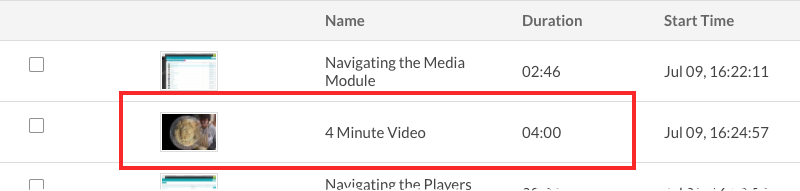
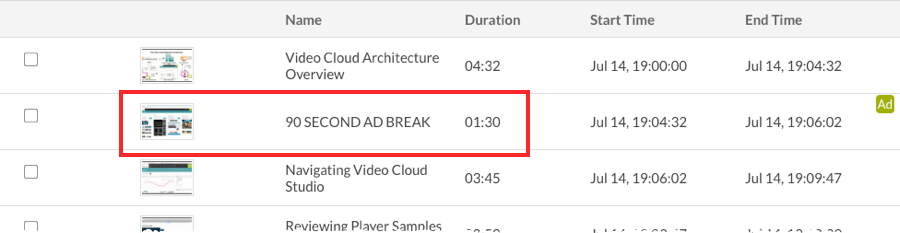
cloud playout

diff --git a/_site/general/cloud-playout-stream-vod.html b/_site/general/cloud-playout-stream-vod.html
@@ -971,7 +971,7 @@ function doGTranslate(lang_pair) {if(lang_pair.value)lang_pair=lang_pair.value;i
       <li>Click <strong>Insert Ads</strong> and select an <strong>ad duration</strong>. The list of ad durations is generated based upon the lengths of all the ad break &quot;placeholder&quot; videos (tagged <code>cp-ad-holder</code>).
         <figure class="bcls-figure"><img class="bcls-image--no-border" alt="report switcher" src="/assets/images/general/playout-insert-ads-button.png" /></figure>
       </li>
-      <li>Click <strong>Ok</strong>. The ad with the selected length will be inserted into the program after the selected video.
+      <li>Click <strong>Ok</strong>. The &quot;placeholder&quot; video with the selected length will be inserted into the program after the selected video.
         <figure class="bcls-figure"><img class="bcls-image--no-border" alt="report switcher" src="/assets/images/general/playout-ad-break-inserted.png" /></figure>
         <aside class="bcls-aside bcls-aside--information">Note: The video that is inserted as a &quot;placeholder&quot; <strong>will not</strong> be played as part of the program. This video is only used to indicate where an ad request will be made and the ad length.</aside>
       </li>
@@ -1005,6 +1005,7 @@ function doGTranslate(lang_pair) {if(lang_pair.value)lang_pair=lang_pair.value;i
     <h2 id="analytics">Viewing channel output and analytics</h2>
     <p>While the channel is in a <strong>RUNNING</strong> state, it is possible to view channel output and analytics. Click on the channel on the <strong>Channels</strong> page to open the channel details. By default, the channel <strong>Output &amp; Analytics</strong> will be displayed.</p>
     <figure class="bcls-figure"><img class="bcls-image--no-border" alt="" src="/assets/images/general/playout-channel-output.png" /></figure>
+    <aside class="bcls-aside bcls-aside--information">Note: If Ad Insertion is enabled, the preview will not display.</aside>
     <p>Click <strong>View in Brightcove Live</strong> to open the Live module Control Room page with the currently running program.</p>
   </section>
   <section class="bcls-section">
@@ -1067,7 +1068,7 @@ function doGTranslate(lang_pair) {if(lang_pair.value)lang_pair=lang_pair.value;i
 
 <hr>
 <div class="last-updated">
-  Page last updated on 13 Jul 2020
+  Page last updated on 14 Jul 2020
 </div>
 
 

diff --git a/general/cloud-playout-stream-vod.html b/general/cloud-playout-stream-vod.html
@@ -131,7 +131,7 @@ parent: General Information
       <li>Click <strong>Insert Ads</strong> and select an <strong>ad duration</strong>. The list of ad durations is generated based upon the lengths of all the ad break &quot;placeholder&quot; videos (tagged <code>cp-ad-holder</code>).
         <figure class="bcls-figure"><img class="bcls-image--no-border" alt="report switcher" src="/assets/images/general/playout-insert-ads-button.png" /></figure>
       </li>
-      <li>Click <strong>Ok</strong>. The ad with the selected length will be inserted into the program after the selected video.
+      <li>Click <strong>Ok</strong>. The &quot;placeholder&quot; video with the selected length will be inserted into the program after the selected video.
         <figure class="bcls-figure"><img class="bcls-image--no-border" alt="report switcher" src="/assets/images/general/playout-ad-break-inserted.png" /></figure>
         <aside class="bcls-aside bcls-aside--information">Note: The video that is inserted as a &quot;placeholder&quot; <strong>will not</strong> be played as part of the program. This video is only used to indicate where an ad request will be made and the ad length.</aside>
       </li>
@@ -165,6 +165,7 @@ parent: General Information
     <h2 id="analytics">Viewing channel output and analytics</h2>
     <p>While the channel is in a <strong>RUNNING</strong> state, it is possible to view channel output and analytics. Click on the channel on the <strong>Channels</strong> page to open the channel details. By default, the channel <strong>Output &amp; Analytics</strong> will be displayed.</p>
     <figure class="bcls-figure"><img class="bcls-image--no-border" alt="" src="/assets/images/general/playout-channel-output.png" /></figure>
+    <aside class="bcls-aside bcls-aside--information">Note: If Ad Insertion is enabled, the preview will not display.</aside>
     <p>Click <strong>View in Brightcove Live</strong> to open the Live module Control Room page with the currently running program.</p>
   </section>
   <section class="bcls-section">
